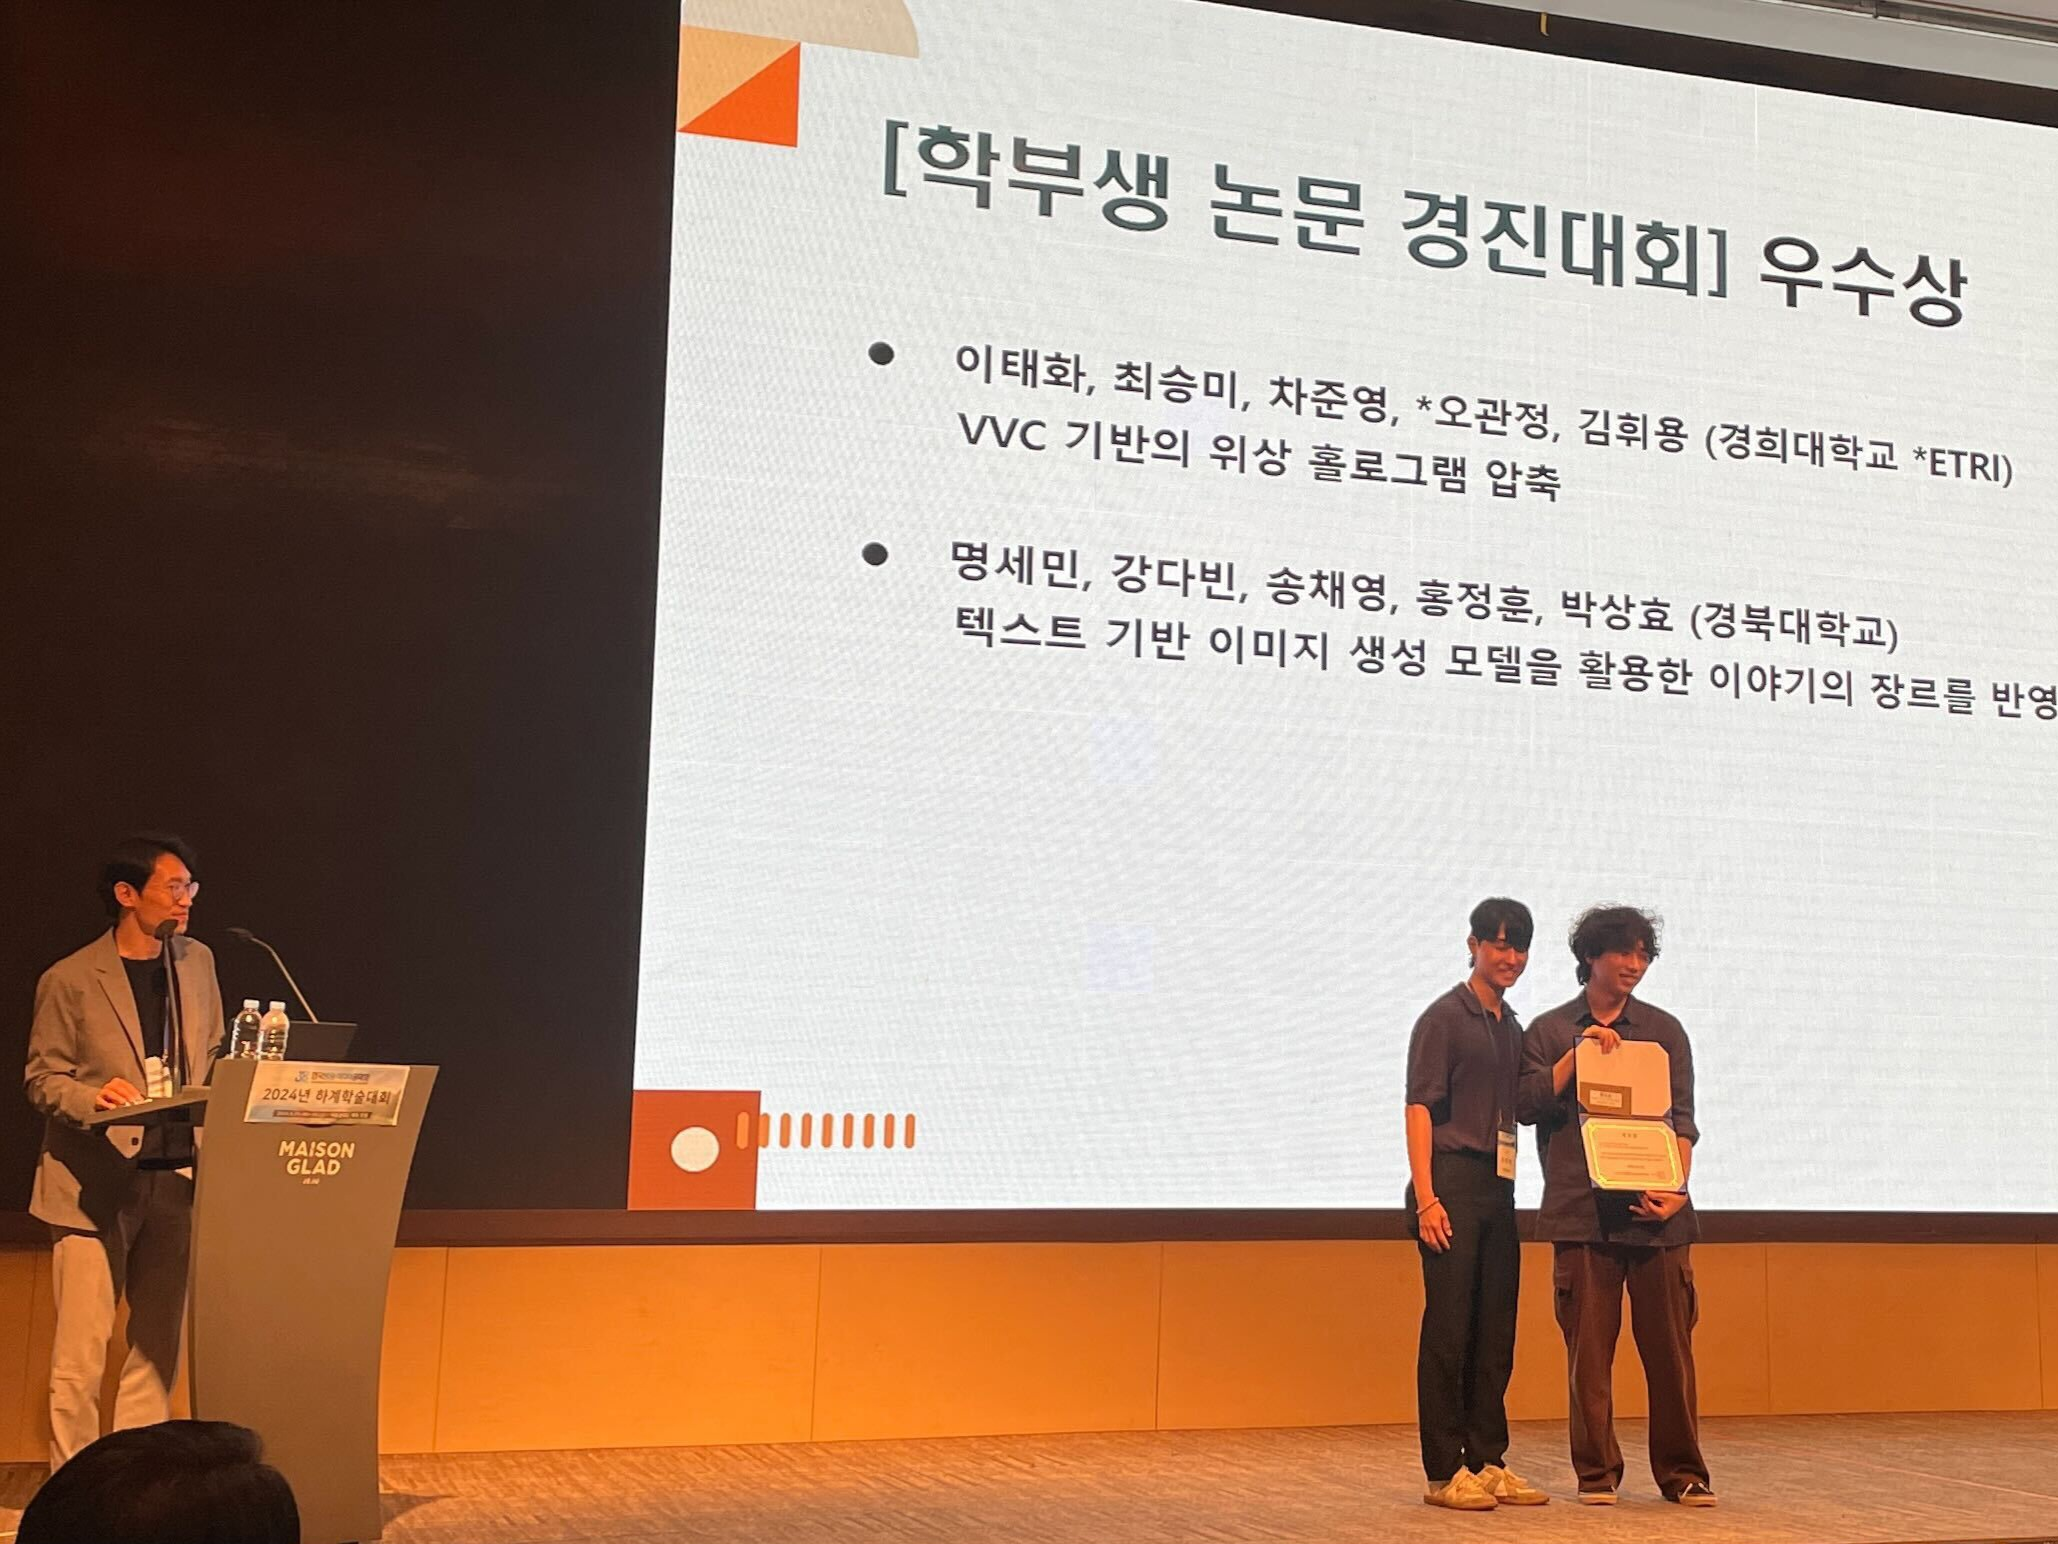
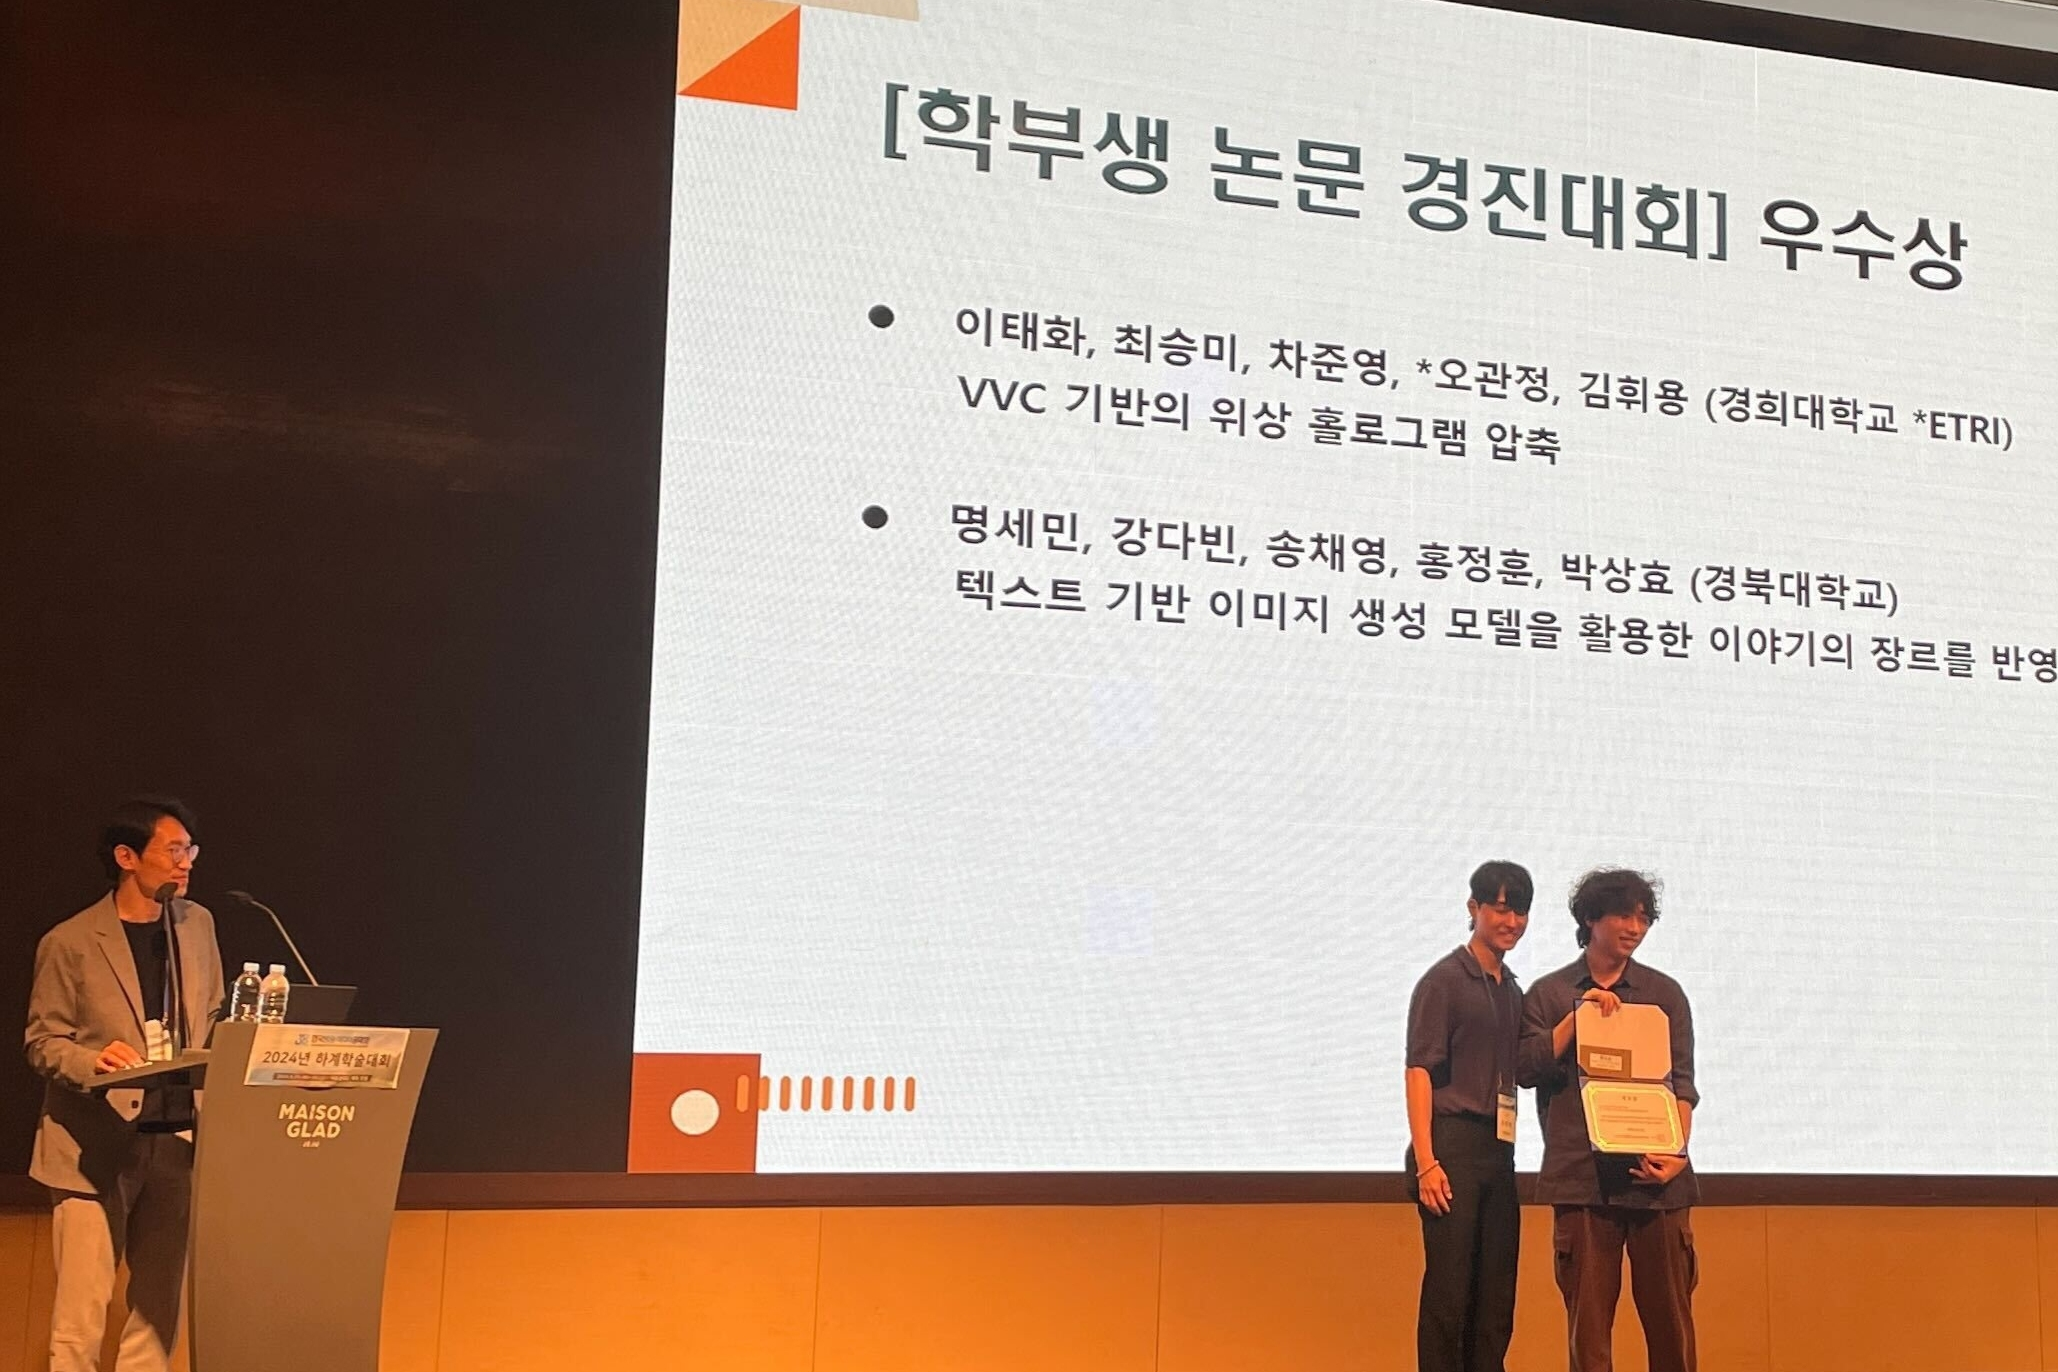
feat: main page awards update

diff --git a/index.html b/index.html
@@ -214,6 +214,56 @@
           class="row g-4 portfolio-container wow fadeInUp"
           data-wow-delay="0.1s"
         >
+        <div class="col-lg-4 col-md-6 portfolio-item first">
+          <div class="portfolio-img rounded overflow-hidden">
+            <img class="img-fluid" src="img/project/SY_20240628.jpg" alt="" />
+            <div class="portfolio-btn">
+              <a
+                class="btn btn-lg-square btn-outline-light rounded-circle mx-1"
+                href="img/project/SY_20240628.jpg"
+                data-lightbox="portfolio"
+                ><i class="fa fa-eye"></i
+              ></a>
+              <a
+                class="btn btn-lg-square btn-outline-light rounded-circle mx-1"
+                href="news.html"
+                ><i class="fa fa-link"></i
+              ></a>
+            </div>
+          </div>
+          <div class="pt-3">
+            <p class="text-primary mb-0">2024 한국방송미디어공학회</p>
+            <hr class="text-primary w-25 my-2" />
+            <h5 class="lh-base">
+              [축!] 학부생논문경진대회 학생 우수논문상 수상! (2024.06.28)<br/>
+            </h5>
+          </div>
+        </div>
+        <div class="col-lg-4 col-md-6 portfolio-item first">
+          <div class="portfolio-img rounded overflow-hidden">
+            <img class="img-fluid" src="img/project/TH_20240628.jpg" alt="" />
+            <div class="portfolio-btn">
+              <a
+                class="btn btn-lg-square btn-outline-light rounded-circle mx-1"
+                href="img/project/TH_20240628.jpg"
+                data-lightbox="portfolio"
+                ><i class="fa fa-eye"></i
+              ></a>
+              <a
+                class="btn btn-lg-square btn-outline-light rounded-circle mx-1"
+                href="news.html"
+                ><i class="fa fa-link"></i
+              ></a>
+            </div>
+          </div>
+          <div class="pt-3">
+            <p class="text-primary mb-0">2024 한국방송미디어공학회</p>
+            <hr class="text-primary w-25 my-2" />
+            <h5 class="lh-base">
+              [축!] 학부생논문경진대회 우수상(1등) 수상! (2024.06.28)<br/>
+            </h5>
+          </div>
+        </div>
           <div class="col-lg-4 col-md-6 portfolio-item second">
             <div class="portfolio-img rounded overflow-hidden">
               <img class="img-fluid" src="img/project/IEEEVR_2024_LogoBanner.png" alt="" />
